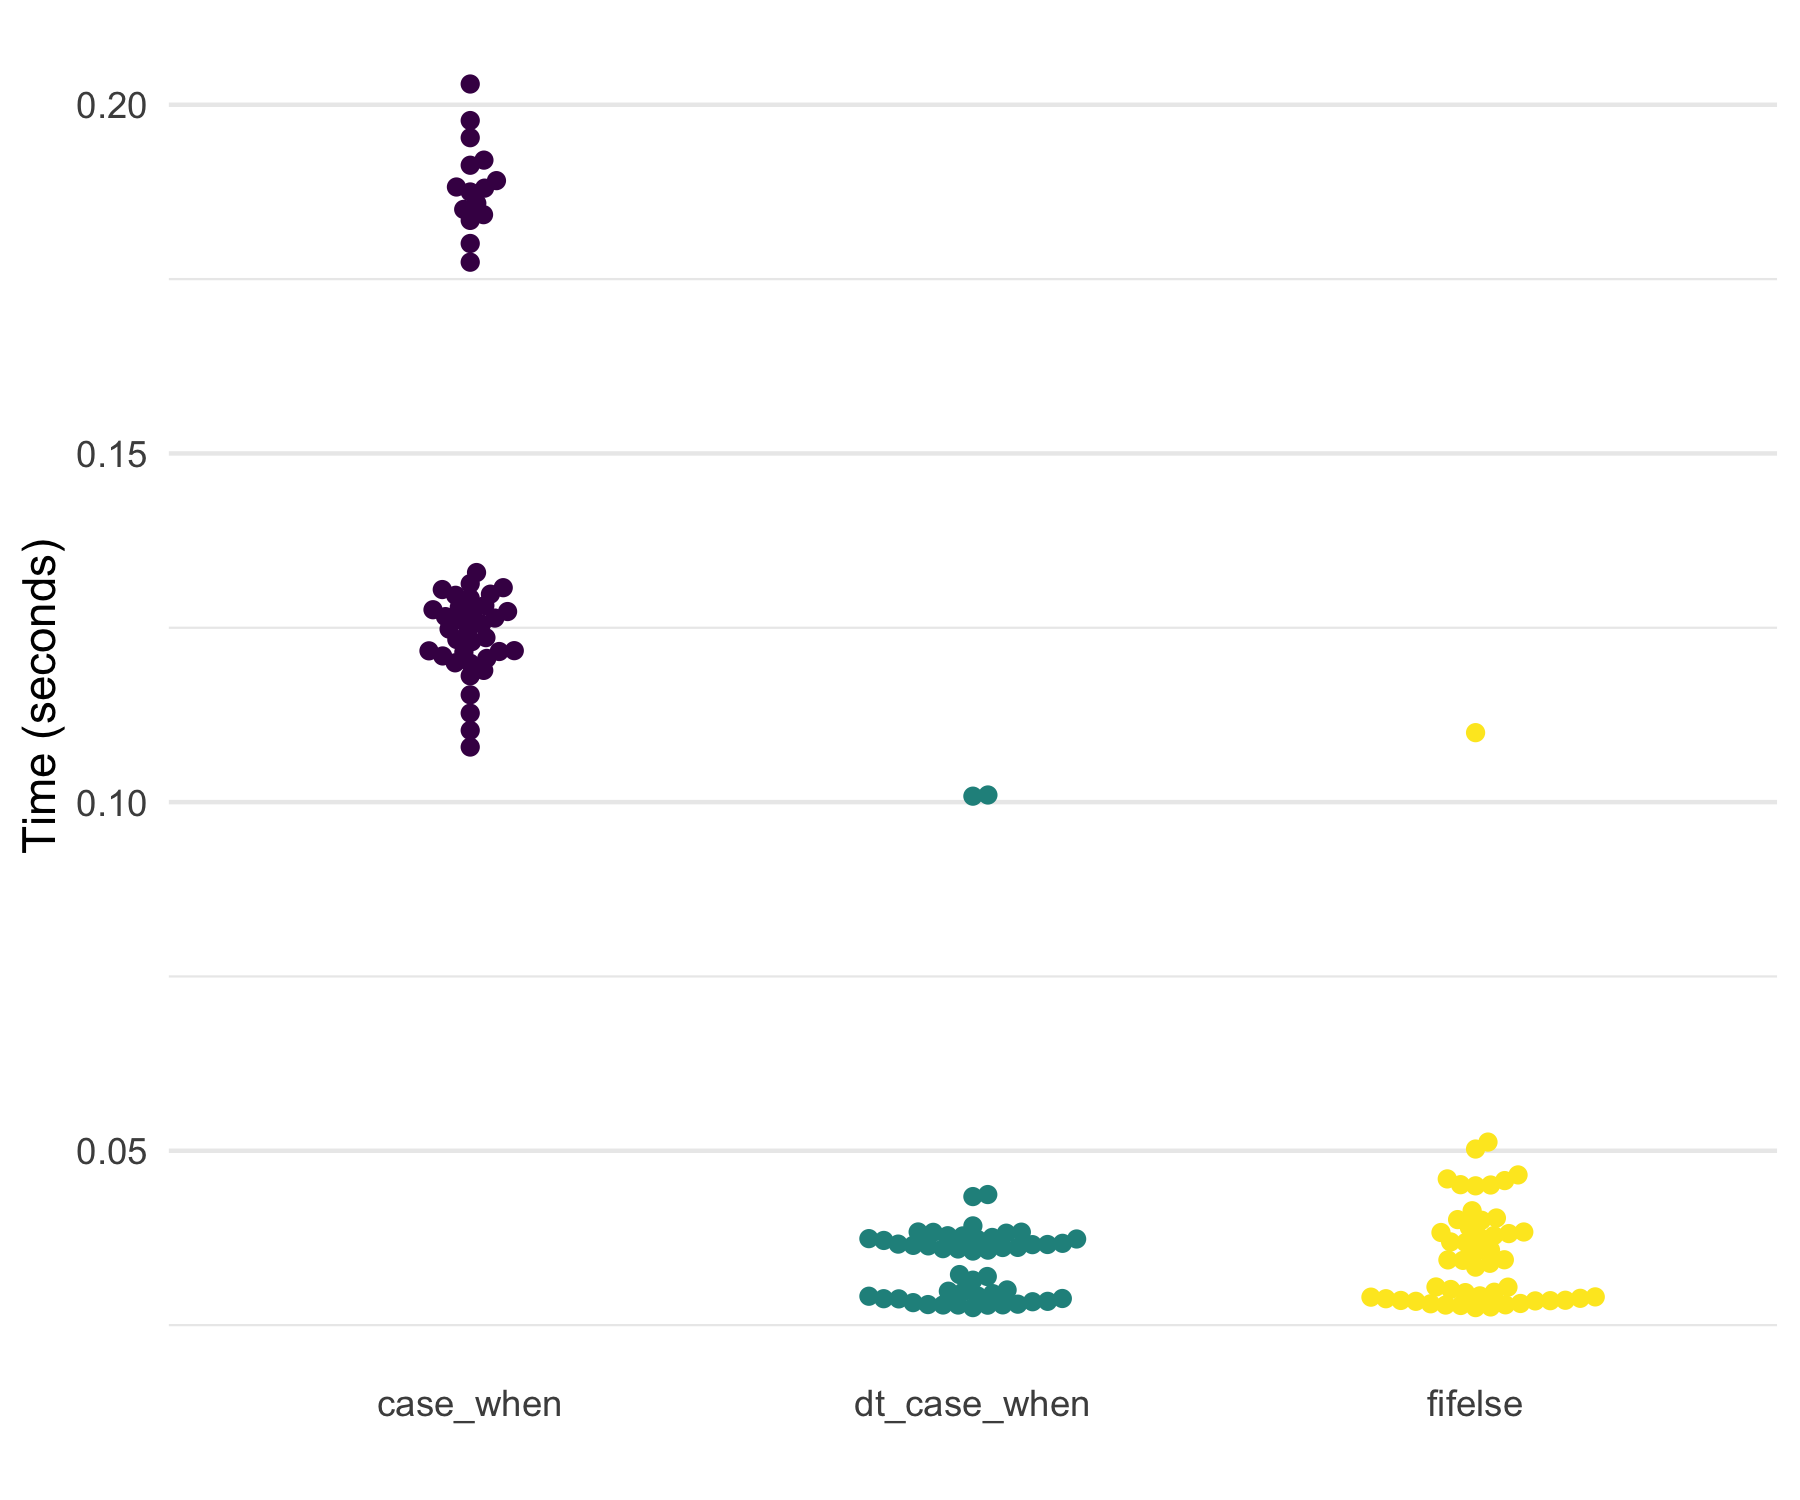
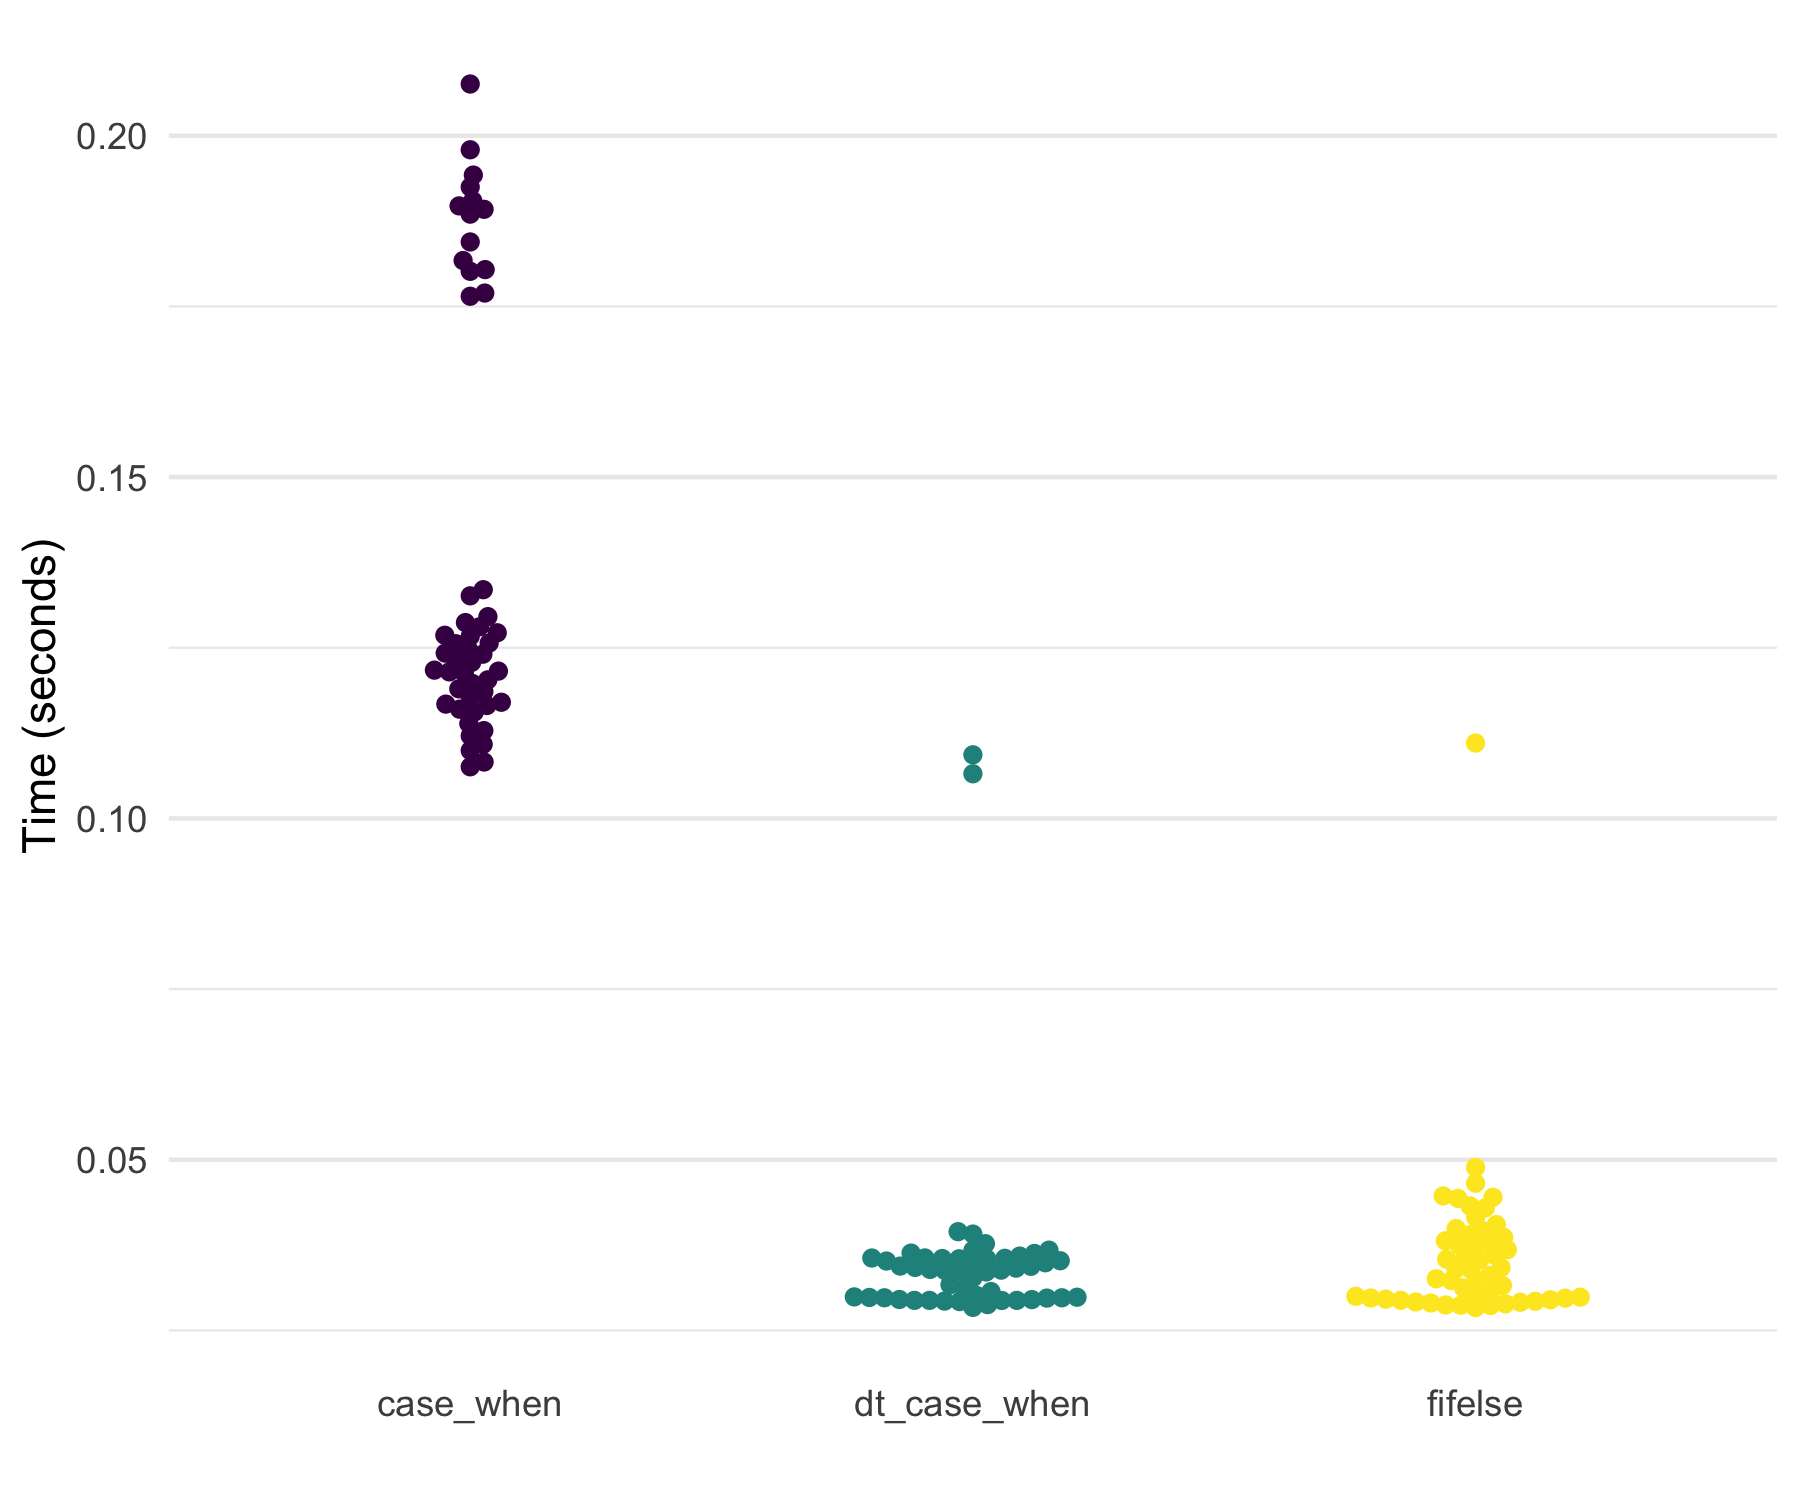
readme and keyby in count

diff --git a/README.md b/README.md
@@ -211,9 +211,9 @@ built on `data.table::fifelse()`.
     #> # A tibble: 3 x 3
     #>   expression     median mem_alloc
     #>   <chr>        <bch:tm> <bch:byt>
-    #> 1 case_when     127.5ms   148.8MB
-    #> 2 dt_case_when   35.9ms    34.3MB
-    #> 3 fifelse        34.3ms    34.3MB
+    #> 1 case_when     124.5ms   148.8MB
+    #> 2 dt_case_when   33.9ms    34.3MB
+    #> 3 fifelse          34ms    34.3MB
 
 ## Fill
 
@@ -321,8 +321,8 @@ marks3 <-
     #> # A tibble: 2 x 3
     #>   expression                                    median mem_alloc
     #>   <bch:expr>                                  <bch:tm> <bch:byt>
-    #> 1 tidyr::fill(dplyr::group_by(df3, id), x, y)   59.8ms    30.9MB
-    #> 2 tidyfast::dt_fill(dt3, x, y, id = list(id))   21.7ms    29.1MB
+    #> 1 tidyr::fill(dplyr::group_by(df3, id), x, y)   63.1ms    30.9MB
+    #> 2 tidyfast::dt_fill(dt3, x, y, id = list(id))   20.3ms    29.1MB
 
 ## Separate
 
@@ -364,11 +364,19 @@ than `tidyr::separate()`.
     #> # A tibble: 3 x 3
     #>   expression            median mem_alloc
     #>   <chr>               <bch:tm> <bch:byt>
-    #> 1 separate               321ms    11.6MB
-    #> 2 dt_separate            117ms    30.6MB
-    #> 3 dt_separate-mutable   96.6ms    26.7MB
+    #> 1 separate               350ms    11.6MB
+    #> 2 dt_separate            144ms    30.6MB
+    #> 3 dt_separate-mutable    130ms    26.7MB
 
 ## Count and Uncount
+
+The `dt_count()` function does essentially what `dplyr::count()` does.
+Notably, this, unlike the majority of other `dt_` functions, wraps a
+very simple statement in `data.table`. That is, `data.table` makes
+getting counts very simple and concise. Nonetheless, `dt_count()` fits
+the general API of `tidyfast`. To some degree, `dt_uncount()` is also a
+fairly simple wrapper, although the approach may not be as
+straightforward as that for `dt_count()`.
 
 The following examples show how count and uncount can work. We’ll use
 the `dt` data table from the nesting examples.
@@ -380,7 +388,9 @@ counted
 #> 1:   2 33217
 #> 2:   3 33453
 #> 3:   1 33330
+```
 
+``` r
 uncounted <- dt_uncount(counted, N)
 print(uncounted)
 #>         grp
@@ -397,10 +407,31 @@ print(uncounted)
 #> 100000:   1
 ```
 
+These are also quick (not that the `tidyverse` functions were at all
+slow here).
+
+``` r
+dt5 <- copy(dt)
+df5 <- data.frame(dt5)
+
+marks5 <-
+  bench::mark(
+    counted_tbl <- dplyr::count(df5, grp),
+    counted_dt <- tidyfast::dt_count(dt5, grp),
+    tidyr::uncount(counted_tbl, n),
+    tidyfast::dt_uncount(counted_dt, N),
+    check = FALSE,
+    iterations = 25
+  )
+```
+
+<img src="man/figures/README-unnamed-chunk-21-1.png" width="70%" />
+
 ## Note
 
 Please note that the `tidyfast` project is released with a [Contributor
 Code of Conduct](.github/CODE_OF_CONDUCT.md). By contributing to this
 project, you agree to abide by its terms.
 
-Also, `ggplot2` and `ggbeeswarm` were used herein for creating plots.
+Also, `ggplot2`, `stringr`, and `ggbeeswarm` were used herein for
+creating plots.
